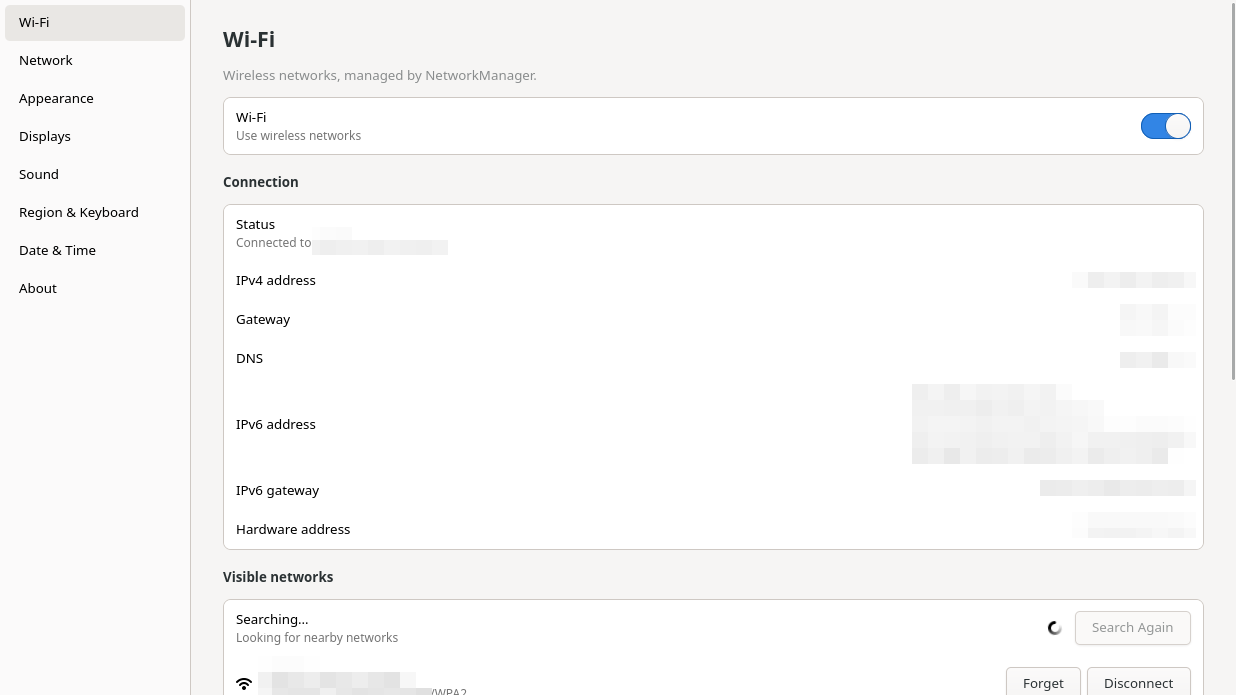
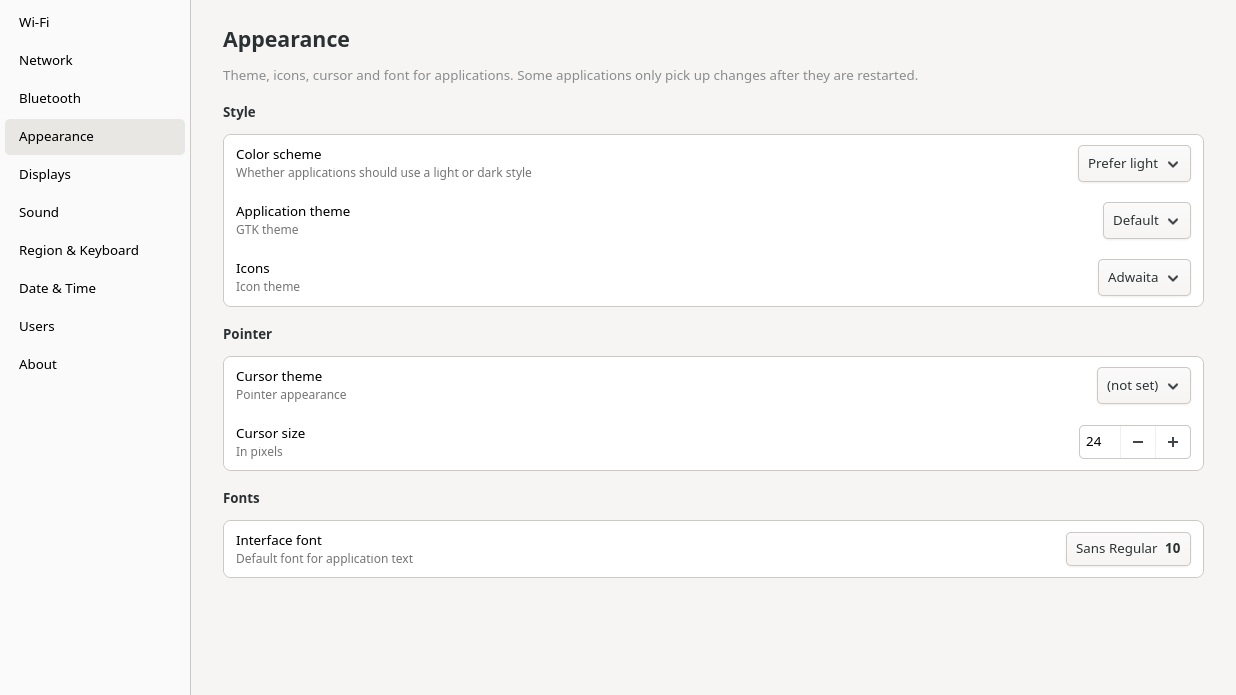
Publish SettingsGoo gallery entry with GitHub link
Remove COMING SOON label, move card before TermGoo, link to
github.com/aisloperator/settingsgoo, and update screenshot.

diff --git a/docs/index.html b/docs/index.html
@@ -172,6 +172,23 @@
           </div>
 
           <div class="gallery-card reveal">
+            <a href="https://github.com/aisloperator/settingsgoo" target="_blank" rel="noopener" class="gallery-img-link">
+              <img src="settingsgoo.png" alt="SettingsGoo screenshot" class="gallery-img">
+            </a>
+            <div class="gallery-info">
+              <h3 class="gallery-title">SettingsGoo</h3>
+              <div class="gallery-links">
+                <a href="https://github.com/aisloperator/settingsgoo" target="_blank" rel="noopener">
+                  <svg viewBox="0 0 24 24" fill="currentColor" width="14" height="14" aria-hidden="true">
+                    <path d="M12 0C5.37 0 0 5.37 0 12c0 5.31 3.435 9.795 8.205 11.385.6.105.825-.255.825-.57 0-.285-.015-1.23-.015-2.235-3.015.555-3.795-.735-4.035-1.41-.135-.345-.72-1.41-1.23-1.695-.42-.225-1.02-.78-.015-.795.945-.015 1.62.87 1.845 1.23 1.08 1.815 2.805 1.305 3.495.99.105-.78.42-1.305.765-1.605-2.67-.3-5.46-1.335-5.46-5.925 0-1.305.465-2.385 1.23-3.225-.12-.3-.54-1.53.12-3.18 0 0 1.005-.315 3.3 1.23.96-.27 1.98-.405 3-.405s2.04.135 3 .405c2.295-1.56 3.3-1.23 3.3-1.23.66 1.65.24 2.88.12 3.18.765.84 1.23 1.905 1.23 3.225 0 4.605-2.805 5.625-5.475 5.925.435.375.81 1.095.81 2.22 0 1.605-.015 2.895-.015 3.3 0 .315.225.69.825.57A12.02 12.02 0 0 0 24 12c0-6.63-5.37-12-12-12z"/>
+                  </svg>
+                  GitHub
+                </a>
+              </div>
+            </div>
+          </div>
+
+          <div class="gallery-card reveal">
             <a href="https://github.com/aisloperator/termgoo" target="_blank" rel="noopener" class="gallery-img-link">
               <img src="termgoo.png" alt="TermGoo screenshot" class="gallery-img">
             </a>
@@ -273,17 +290,6 @@
             </div>
             <div class="gallery-info">
               <h3 class="gallery-title">BrowseGoo (COMING SOON)</h3>
-              <div class="gallery-links">
-              </div>
-            </div>
-          </div>
-
-          <div class="gallery-card reveal">
-            <div class="gallery-img-link">
-              <img src="settingsgoo.png" alt="SettingsGoo screenshot" class="gallery-img">
-            </div>
-            <div class="gallery-info">
-              <h3 class="gallery-title">SettingsGoo (COMING SOON)</h3>
               <div class="gallery-links">
               </div>
             </div>
